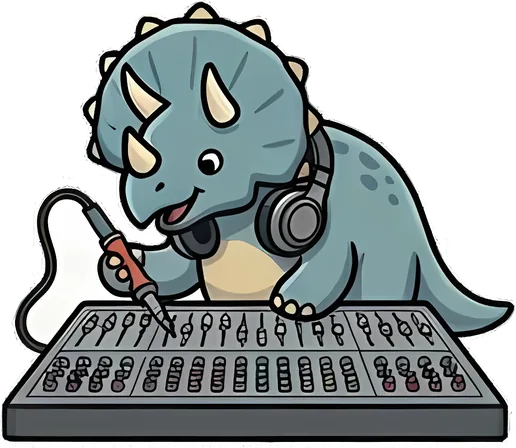
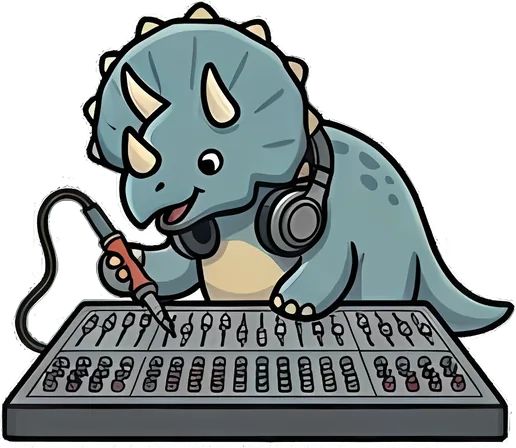
Punch out the leftover background inside the stickers
Toon spotted white where background should be — clearest in the loop of
the mixing-desk triceratops' soldering-iron cable, which read as a blob
stuck to the artwork once the sticker sat on a coloured card.

WHICH WHITE IS BACKGROUND CANNOT BE DECIDED AUTOMATICALLY. A gap of paper
enclosed by the artwork is the same white as a drawn one — the chef's
jacket, the astronaut's suit, the canvas on the easel — and every rule
that might separate them was measured and none does. Colour: both are
(244,245,239) on the sheet and (251,251,247) after upscaling, and the
sheet has no second white anywhere in it. Distance to the outside: 13-41
dilations for background against 7-41 for drawn, fully overlapping.
Connectivity: these gaps are sealed by the sticker's own white keyline,
so they are as enclosed as any painted shape. Removing every enclosed
white was tried and ate the canvas, the jacket and the spacesuit.

So the 89 candidate regions were rendered as contact sheets and judged by
eye. Fifteen are background across thirteen stickers; the rest stay. The
decisions live in art/stickers.json as normalised points, so they survive
a change of resolution, and the flood still computes the region rather
than storing it. A point that no longer lands on white prints a warning
instead of silently doing nothing.

That file now also holds the finished sticker names per sheet, which
until now existed only as a rename I did by hand and never wrote down —
[…]

diff --git a/scripts/slice-stickers.py b/scripts/slice-stickers.py
@@ -41,6 +41,7 @@ art/contact-<sheet>.png for naming them afterwards.
 
 from __future__ import annotations
 
+import json
 import sys
 from collections import deque
 from pathlib import Path
@@ -51,6 +52,11 @@ from PIL import Image
 ROOT = Path(__file__).resolve().parent.parent
 OUT = ROOT / "static" / "dino"
 CONTACT = ROOT / "art"
+
+# The names and the background holes, kept beside the sheets so re-running this
+# reproduces exactly what is in static/dino rather than something that has to be
+# renamed and retouched by hand afterwards.
+CATALOGUE = ROOT / "art" / "stickers.json"
 
 # How far a pixel must sit from the paper colour to count as ink. Low, because
 # the drawings have pale washes - a grey shadow, a near-white sky - that must
@@ -244,6 +250,52 @@ def cut_out(sheet: Image.Image, paper: np.ndarray, blob: dict, ids: np.ndarray,
     return art.crop(bounds) if bounds else None
 
 
+def punch_holes(art: Image.Image, seeds: list[list[float]]) -> Image.Image:
+    """Make listed background regions transparent.
+
+    THIS LIST IS CURATED BY HAND AND HAS TO BE. A gap of paper enclosed by the
+    artwork - inside the loop of the soldering iron's cable, between a dinosaur
+    and the loom it is standing at - is the same white as a drawn one: the
+    chef's jacket, the astronaut's suit, the canvas on the easel. Every rule
+    that might separate them was measured and none does. On the sheet both sit
+    at (244,245,239); after upscaling both read (251,251,247). Distance from the
+    outside overlaps completely, 13-41 dilations for background against 7-41 for
+    drawn. Connectivity fails too, because these gaps are sealed by the
+    sticker's white keyline and are as enclosed as any painted shape.
+
+    So each seed is a point somebody looked at and judged, stored in normalised
+    coordinates so it survives a change of resolution. Flooding from the point
+    means the exact region boundary is still computed rather than stored.
+    """
+    a = np.array(art.convert("RGBA"))
+    h, w = a.shape[:2]
+    opaque = a[:, :, 3] > 128
+    # 232 rather than the 238 the seeds were picked at: they were chosen on the
+    # upscaled art, which is cleaner and more contrasty than what comes off the
+    # sheet, so a point that is plainly white there can be a shade under it here.
+    white = opaque & (a[:, :, :3].min(axis=2) >= 232)
+
+    ys, xs = np.nonzero(white)
+    for sx, sy in seeds:
+        x, y = min(w - 1, int(sx * w)), min(h - 1, int(sy * h))
+        if not white[y, x]:
+            # Snap to the nearest white pixel, but only just: a seed that has to
+            # travel is a seed pointing at art that has moved, and silently
+            # flooding whatever is closest would erase the wrong thing.
+            if len(ys) == 0:
+                continue
+            d = (ys - y) ** 2 + (xs - x) ** 2
+            i = int(d.argmin())
+            limit = max(4, round(min(h, w) * 0.03))
+            if d[i] > limit ** 2:
+                print(f"    ! seed ({sx}, {sy}) is not on a white region any more")
+                continue
+            y, x = int(ys[i]), int(xs[i])
+        a[:, :, 3][flood([(y, x)], white)] = 0
+
+    return Image.fromarray(a)
+
+
 def slice_sheet(path: Path) -> list[Path]:
     sheet = Image.open(path).convert("RGB")
     rgb = np.array(sheet)
@@ -269,8 +321,12 @@ def slice_sheet(path: Path) -> list[Path]:
     OUT.mkdir(parents=True, exist_ok=True)
     CONTACT.mkdir(parents=True, exist_ok=True)
     stem = path.stem.lower().replace(" ", "-")
+    catalogue = json.loads(CATALOGUE.read_text()) if CATALOGUE.exists() else {}
+    slugs = catalogue.get("sheets", {}).get(stem, [])
+    holes = catalogue.get("holes", {})
     written: list[Path] = []
     tiles: list[Image.Image] = []
+    found = 0
 
     for blob in stickers:
         top, left, bottom, right = blob["box"]
@@ -284,6 +340,22 @@ def slice_sheet(path: Path) -> list[Path]:
         art = cut_out(sheet, paper, blob, ids, box)
         if art is None:
             continue
+        found += 1
+
+        # Named from the catalogue when there is one, so the output is the final
+        # filename rather than something to be renamed by hand afterwards. A
+        # null entry is a sticker deliberately dropped - a duplicate, or the one
+        # that turned out to be a globe with no dinosaur in it.
+        if slugs:
+            if found > len(slugs):
+                print(f"    ! sticker {found} is past the end of the catalogue")
+                continue
+            slug = slugs[found - 1]
+            if slug is None:
+                continue
+            art = punch_holes(art, holes.get(slug, []))
+        else:
+            slug = f"{stem}-{found:02d}"
 
         # Never enlarge. These sheets are phone screenshots, so a sticker is
         # around 230px tall; stretching that to 360 buys nothing but soft edges
@@ -292,7 +364,7 @@ def slice_sheet(path: Path) -> list[Path]:
             scale = TARGET_H / art.height
             art = art.resize((max(1, round(art.width * scale)), TARGET_H), Image.LANCZOS)
 
-        dest = OUT / f"{stem}-{len(written) + 1:02d}.webp"
+        dest = OUT / f"{slug}.webp"
         art.save(dest, "WEBP", quality=82, method=6)
         written.append(dest)
         tiles.append(art)

diff --git a/CLAUDE.md b/CLAUDE.md
@@ -531,6 +531,21 @@ one came close to a hard rule, the reasoning is recorded here.
   screen mid-sentence takes the conversation away from under you. The assistant's mic
   transcribes into the input box and does NOT send — you read the words first.
 
+- **Which leftover white is background CANNOT be decided automatically, and the list
+  is curated by hand** (`art/stickers.json` → `holes`,
+  [slice-stickers.py](scripts/slice-stickers.py) `punch_holes`). A gap of paper
+  enclosed by the artwork — inside the loop of the soldering iron's cable, between a
+  dinosaur and its loom — is *the same white* as a drawn one: the chef's jacket, the
+  astronaut's suit, the canvas on the easel. Every separating rule was measured and
+  all of them failed. Colour: both are (244,245,239) on the sheet and (251,251,247)
+  after upscaling. Distance to the outside: 13–41 dilations for background against
+  7–41 for drawn, fully overlapping. Connectivity: these gaps are sealed by the
+  sticker's own white keyline, so they are as enclosed as any painted shape. **Do not
+  spend another afternoon looking for the rule.** Each hole is a normalised point
+  somebody looked at and judged; the flood still computes the region, so the points
+  survive a change of resolution, and a point that no longer lands on white prints a
+  warning rather than silently doing nothing.
+
 - **The two levels are Eras and Projects, in the UI only.** Toon's own words: Music,
   Crafting and Family are categories, and the actual projects (Mixing, building an
   SPD pad, Gardening) live inside them. The app already had that shape — it just

diff --git a/README.md b/README.md
@@ -335,9 +335,18 @@ To redo them from new sheets:
 python3 scripts/slice-stickers.py art/sheets/*
 ```
 
-That writes `static/dino/<sheet>-NN.webp` plus a contact sheet per page in
-`art/`, for naming them. The names in `stickers.ts` are curated by hand
-afterwards; `src/lib/stickers.test.ts` fails if the two ever disagree.
+`art/stickers.json` holds the finished names per sheet (a `null` entry is a
+sticker deliberately dropped) and the list of background holes to make
+transparent, so the command above reproduces `static/dino/` exactly rather than
+producing something to rename and retouch afterwards.
+`src/lib/stickers.test.ts` fails if the names and the files ever disagree.
+
+The holes are curated by hand and have to be: a gap of paper enclosed by the
+artwork is the same white as a drawn one — the chef's jacket, the canvas on the
+easel — and colour, connectivity and distance-to-the-outside were all measured
+and all overlap. Each entry is a normalised point inside a region judged by eye.
+
+After re-slicing, re-run the upscale (below) before the stickers go in the app.
 
 The sheets are phone screenshots, so a sticker arrives about 200px tall while a
 cover on a 3x phone wants roughly 450. They were sharpened with **Real-ESRGAN's
